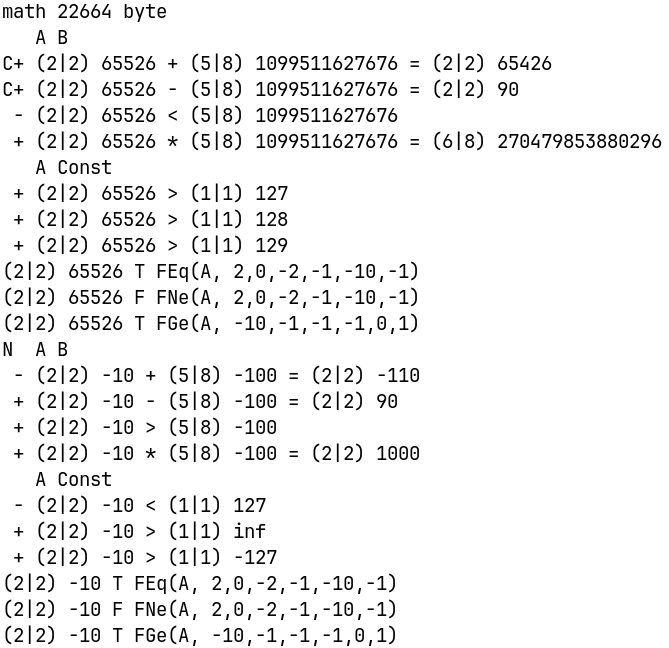
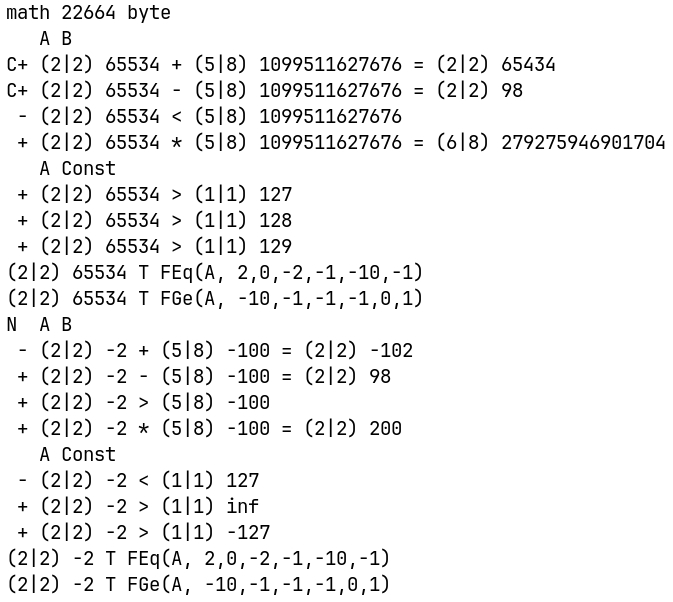
v60.7

Changed region(s): [[0.0, 0.0, 0.9865, 1.0]]

diff --git a/math.h b/math.h
@@ -80,18 +80,17 @@ void FCDIV(an r, an e, an a, anu l, an c);                      // r = a / (an)c
 #define Fmul(r, ...) FCMUL(r, r, Anu(__VA_ARGS__))              // r *= Num              | r *= Mat.b
 #define Fdiv(r, e, ...) FCDIV(r, e, r, Anu(__VA_ARGS__))        // r /= Num, e =...      | r /= Mat.b
 
-void FTst(an a, anu l, an c);                   // a?(an)c[l]{Num} Mat.TF? =:Mat.TN? <:> | a ? Mat.b
-#define Ftst(x, ...) FTst(x,Anu(__VA_ARGS__))   // x ? Num         Mat.TF? =:Mat.TN? <:> | x ? Mat.b
-#define Fge(x, ...) (Ftst(x, __VA_ARGS__), (!Mat.TN | Mat.TF))  // x >= Num              | x >= Mat.b
-#define Fle(x, ...) (Ftst(x, __VA_ARGS__), (Mat.TN | Mat.TF))   // x <= Num              | x <= Mat.b
-#define Fgt(x, ...) (Ftst(x, __VA_ARGS__), !(Mat.TN | Mat.TF))  // x > Num               | x > Mat.b
-#define Flt(x, ...) (Ftst(x, __VA_ARGS__), (Mat.TN && !Mat.TF)) // x < Num               | x < Mat.b
-#define Feq(x, ...) (Ftst(x, __VA_ARGS__), Mat.TF)              // x = Num               | x = Mat.b
-#define Fne(x, ...) (Ftst(x, __VA_ARGS__), !Mat.TF)             // x != Num              | x != Mat.b
+void FCTST(an a, anu l, an c);                  // a?(an)c[l]{Num} Mat.TF? =:Mat.TN? <:> | a ? Mat.b
+#define Ftst(x, ...) FCTST(x, Anu(__VA_ARGS__)) // x ? Num         Mat.TF? =:Mat.TN? <:> | x ? Mat.b
+#define Fge(x, ...) (Ftst(x, __VA_ARGS__),(!Mat.TN | Mat.TF))   // x >= Num              | x >= Mat.b
+#define Fle(x, ...) (Ftst(x, __VA_ARGS__),(Mat.TN | Mat.TF))    // x <= Num              | x <= Mat.b
+#define Fgt(x, ...) (Ftst(x, __VA_ARGS__),!(Mat.TN | Mat.TF))   // x > Num               | x > Mat.b
+#define Flt(x, ...) (Ftst(x, __VA_ARGS__),(Mat.TN && !Mat.TF))  // x < Num               | x < Mat.b
+#define Feq(x, ...) (Ftst(x, __VA_ARGS__),Mat.TF)               // x = Num               | x = Mat.b
+#define Fne(x, ...) (Ftst(x, __VA_ARGS__),!Mat.TF)              // x != Num              | x != Mat.b
 
-void FRANGE(an a, anu l, an c);                 // a ? (an)c[l]{{[Num1,Num2]^k}{>=NumN}} | a >= Mat.b
-void FEOV(an a, anu l, an c);                   // a = (an)c[l]{Num1;Num2;...NumN}       | a = Mat.b
-#define FGe(x, ...) (FRANGE(x,Anu(__VA_ARGS__)),Mat.TF) // x ? {[Num1;Num2]^k}{>=NumN}}  | x >= Mat.b
-#define FEq(x, ...) (FEOV(x,Anu(__VA_ARGS__)),Mat.TF)           // x = {Num1...{,NumN}}  | x = Mat.b
-#define FNe(x, ...) (FEOV(x,Anu(__VA_ARGS__)),!Mat.TF)          // x != {Num1...{,NumN}} | x != Mat.b
+anu FCGE(an a, anu l, an c);                    // a ? (an)c[l]{{[Num1,Num2]^k}{>=NumN}} | a >= Mat.b
+anu FCEQ(an a, anu l, an c);                    // a = (an)c[l]{Num1;Num2;...NumN}       | a = Mat.b
+#define FGe(x, ...) FCGE(x, Anu(__VA_ARGS__))           // x ? {[Num1;Num2]^k}{>=NumN}}  | x >= Mat.b
+#define FEq(x, ...) FCEQ(x, Anu(__VA_ARGS__))                   // x = {Num1...{,NumN}}  | x = Mat.b
 #endif

diff --git a/math.c b/math.c
@@ -163,12 +163,12 @@ void FCMUL(an r, an a, anu l, an c) { if (l--) return FMUL(r, a, l, c); return F
 void FCDIV(an r, an e, an a, anu l, an c) { if (l--) return FDIV(r, e, a, l, c);
   return FDIV(r, e, a, Mat.lb, Mat.b); }
 
-void FTst(an a, anu l, an c) { if (l--) return FTST(a, l, c); return FTST(a, Mat.lb, Mat.b); }
-void FRANGE(an a, anu l, an c) { if (l--) { Mat.e = c; do { Mat.y = (Mat.l > l) ? l:Mat.l;
+void FCTST(an a, anu l, an c) { if (l--) return FTST(a, l, c); return FTST(a, Mat.lb, Mat.b); }
+anu FCGE(an a, anu l, an c) { if (l--) { Mat.e = c; do { Mat.y = (Mat.l > l) ? l:Mat.l;
       FTST(a, Mat.y, Mat.e); Mat.e += 1 + Mat.y; l -= Mat.y; Mat.z = !Mat.TN; if (!l--) break;
       Mat.y = (Mat.l > l) ? l:Mat.l; FTST(a, Mat.y, Mat.e); Mat.e += 1 + Mat.y; l -= Mat.y;
-      Mat.z = Mat.z && (Mat.TN | Mat.TF); if (!l--) break; } while(!Mat.z); Mat.TF = Mat.z; return; }
-  FTST(a, Mat.lb, Mat.b); Mat.TF = !Mat.TN; }
-void FEOV(an a, anu l, an c) { if (l--) { Mat.e = c; do { Mat.y = (Mat.l > l) ? l:Mat.l;
-      FTST(a, Mat.y, Mat.e); Mat.e += 1 + Mat.y; l -= Mat.y; if (!l--) break; } while(!Mat.TF); return; }
-  FTST(a, Mat.lb, Mat.b); }
+      Mat.z = Mat.z && (Mat.TN | Mat.TF); if (!l--) break; } while(!Mat.z); return Mat.z; }
+  FTST(a, Mat.lb, Mat.b); return !Mat.TN; }
+anu FCEQ(an a, anu l, an c) { if (l--) { Mat.e = c; do { Mat.y = (Mat.l > l) ? l:Mat.l;
+      FTST(a, Mat.y, Mat.e); Mat.e += 1 + Mat.y; l -= Mat.y; if (!l--) break; } while(!Mat.TF);
+    return Mat.TF; } FTST(a, Mat.lb, Mat.b); return Mat.TF; }

diff --git a/main.c b/main.c
@@ -32,8 +32,7 @@ void Show(char s) { Flong(Mat.lb,la); Mat.C = 0; if (s == '+') FAdd(Mat.R, Mat.A
 void Test(void) { Faddr((As)Mat.B); Flong(lb,la); anu t,i = 2; printf("%c%c A B\n", Mat.Nim ? 'N':' ', Mat.V ? 'V':' '); Show('+');
   Show('-'); Show('?'); Show('*'); /*Show('/');*/ printf("   A Const\n"); Show('c'); while(i--) { t = *Mat.b; *Mat.b = ++t; Show('?'); }
   Num(la, Mat.A); printf("%c FEq(A, 2,0,-2,-1,-10,-1)\n", FEq(Mat.A, 2,0,-2,-1,-10,-1) ? 'T':'F');
-  Num(la, Mat.A); printf("%c FNe(A, 2,0,-2,-1,-10,-1)\n", FNe(Mat.A, 2,0,-2,-1,-10,-1) ? 'T':'F');
   Num(la, Mat.A); printf("%c FGe(A, -10,-1,-1,-1,0,1)\n", FGe(Mat.A, -10,-1,-1,-1,0,1) ? 'T':'F');}
 
-int main(void) { anu a[m],b[m],e[m],r[m+m]; Faddr((As)b, (As)a, (As)r, (As)e); Fini(NoSign,MatV); la = Fvbe(Mat.A, -1,-10);
+int main(void) { anu a[m],b[m],e[m],r[m+m]; Faddr((As)b, (As)a, (As)r, (As)e); Fini(NoSign,MatV); la = Fvbe(Mat.A, -1,-2);
   lb = Fvle(Mat.B, -100,255,255,255,255); Test(); Fset(Sign,MatV); la = Fmov(la, Mat.A); lb = Fmov(lb, Mat.B); Test(); return 0; }

diff --git a/README.md b/README.md
@@ -25,7 +25,7 @@
 P.s.: Блокировку убрали как только добавил сообщение о ней на главную страницу, длилась минут 20, как я заметил, и принял меры, чтобы сообщить об этом Вам. Это сообщение останется (20.09.2026 ~16.00 +7 UTF) как память, так что буду стараться вопреки невостребованности в России по данной области дабы остальной народ мог этим воспользоваться. Проанализируйте события с момента, как я вернулся в эту сферу (конец января 2026 выложен Products, готовый полностью, затем занялся Fresh в начале февраля 2026), всё это время обновлялся код и было забавно видеть на open.net новости - даже компании серьёзные - их как озарило - так что у меня нет желания и времени следить за соблюдением GPLv3 из России, если заметите нарушение лицензии, то гарантируется взаимовыгодное сотрудничество.
 
 <div align="center">
-  <h1>Результат запуска v60.6</h1>
+  <h1>Результат запуска v60.7</h1>
   
   <picture>
     <source media="(prefers-color-scheme: dark)" srcset="Plus/psb.jpeg">
@@ -95,13 +95,13 @@ typedef struct { anu Nim, V, lb, l, le, C, F, N, Fe, Ne, TF, TN,
 ```
 
 <div align="center">
-  <h2>В состав входит 52 функции:</h2>
+  <h2>В состав входит 51 функции:</h2>
 </div>
 
 - **Инициализация** — 6 функций (4 основные и 2 вспомогательные)
 - **Обработка чисел** — 10 функций (2 зеркалирования 2 копирования 6 из константы в переменную)
 - **Математика** — 16 функций (4 основные и 12 для работы с константой или регистром `Mat.b`)
-- **Сравнение чисел** — 20 функций (15 тривиальных и 5 для работы с диапазонами)
+- **Сравнение чисел** — 20 функций (15 тривиальных и 4 для работы с диапазонами)
 
 <div align="center">
   <h2>Лицензия</h2>
